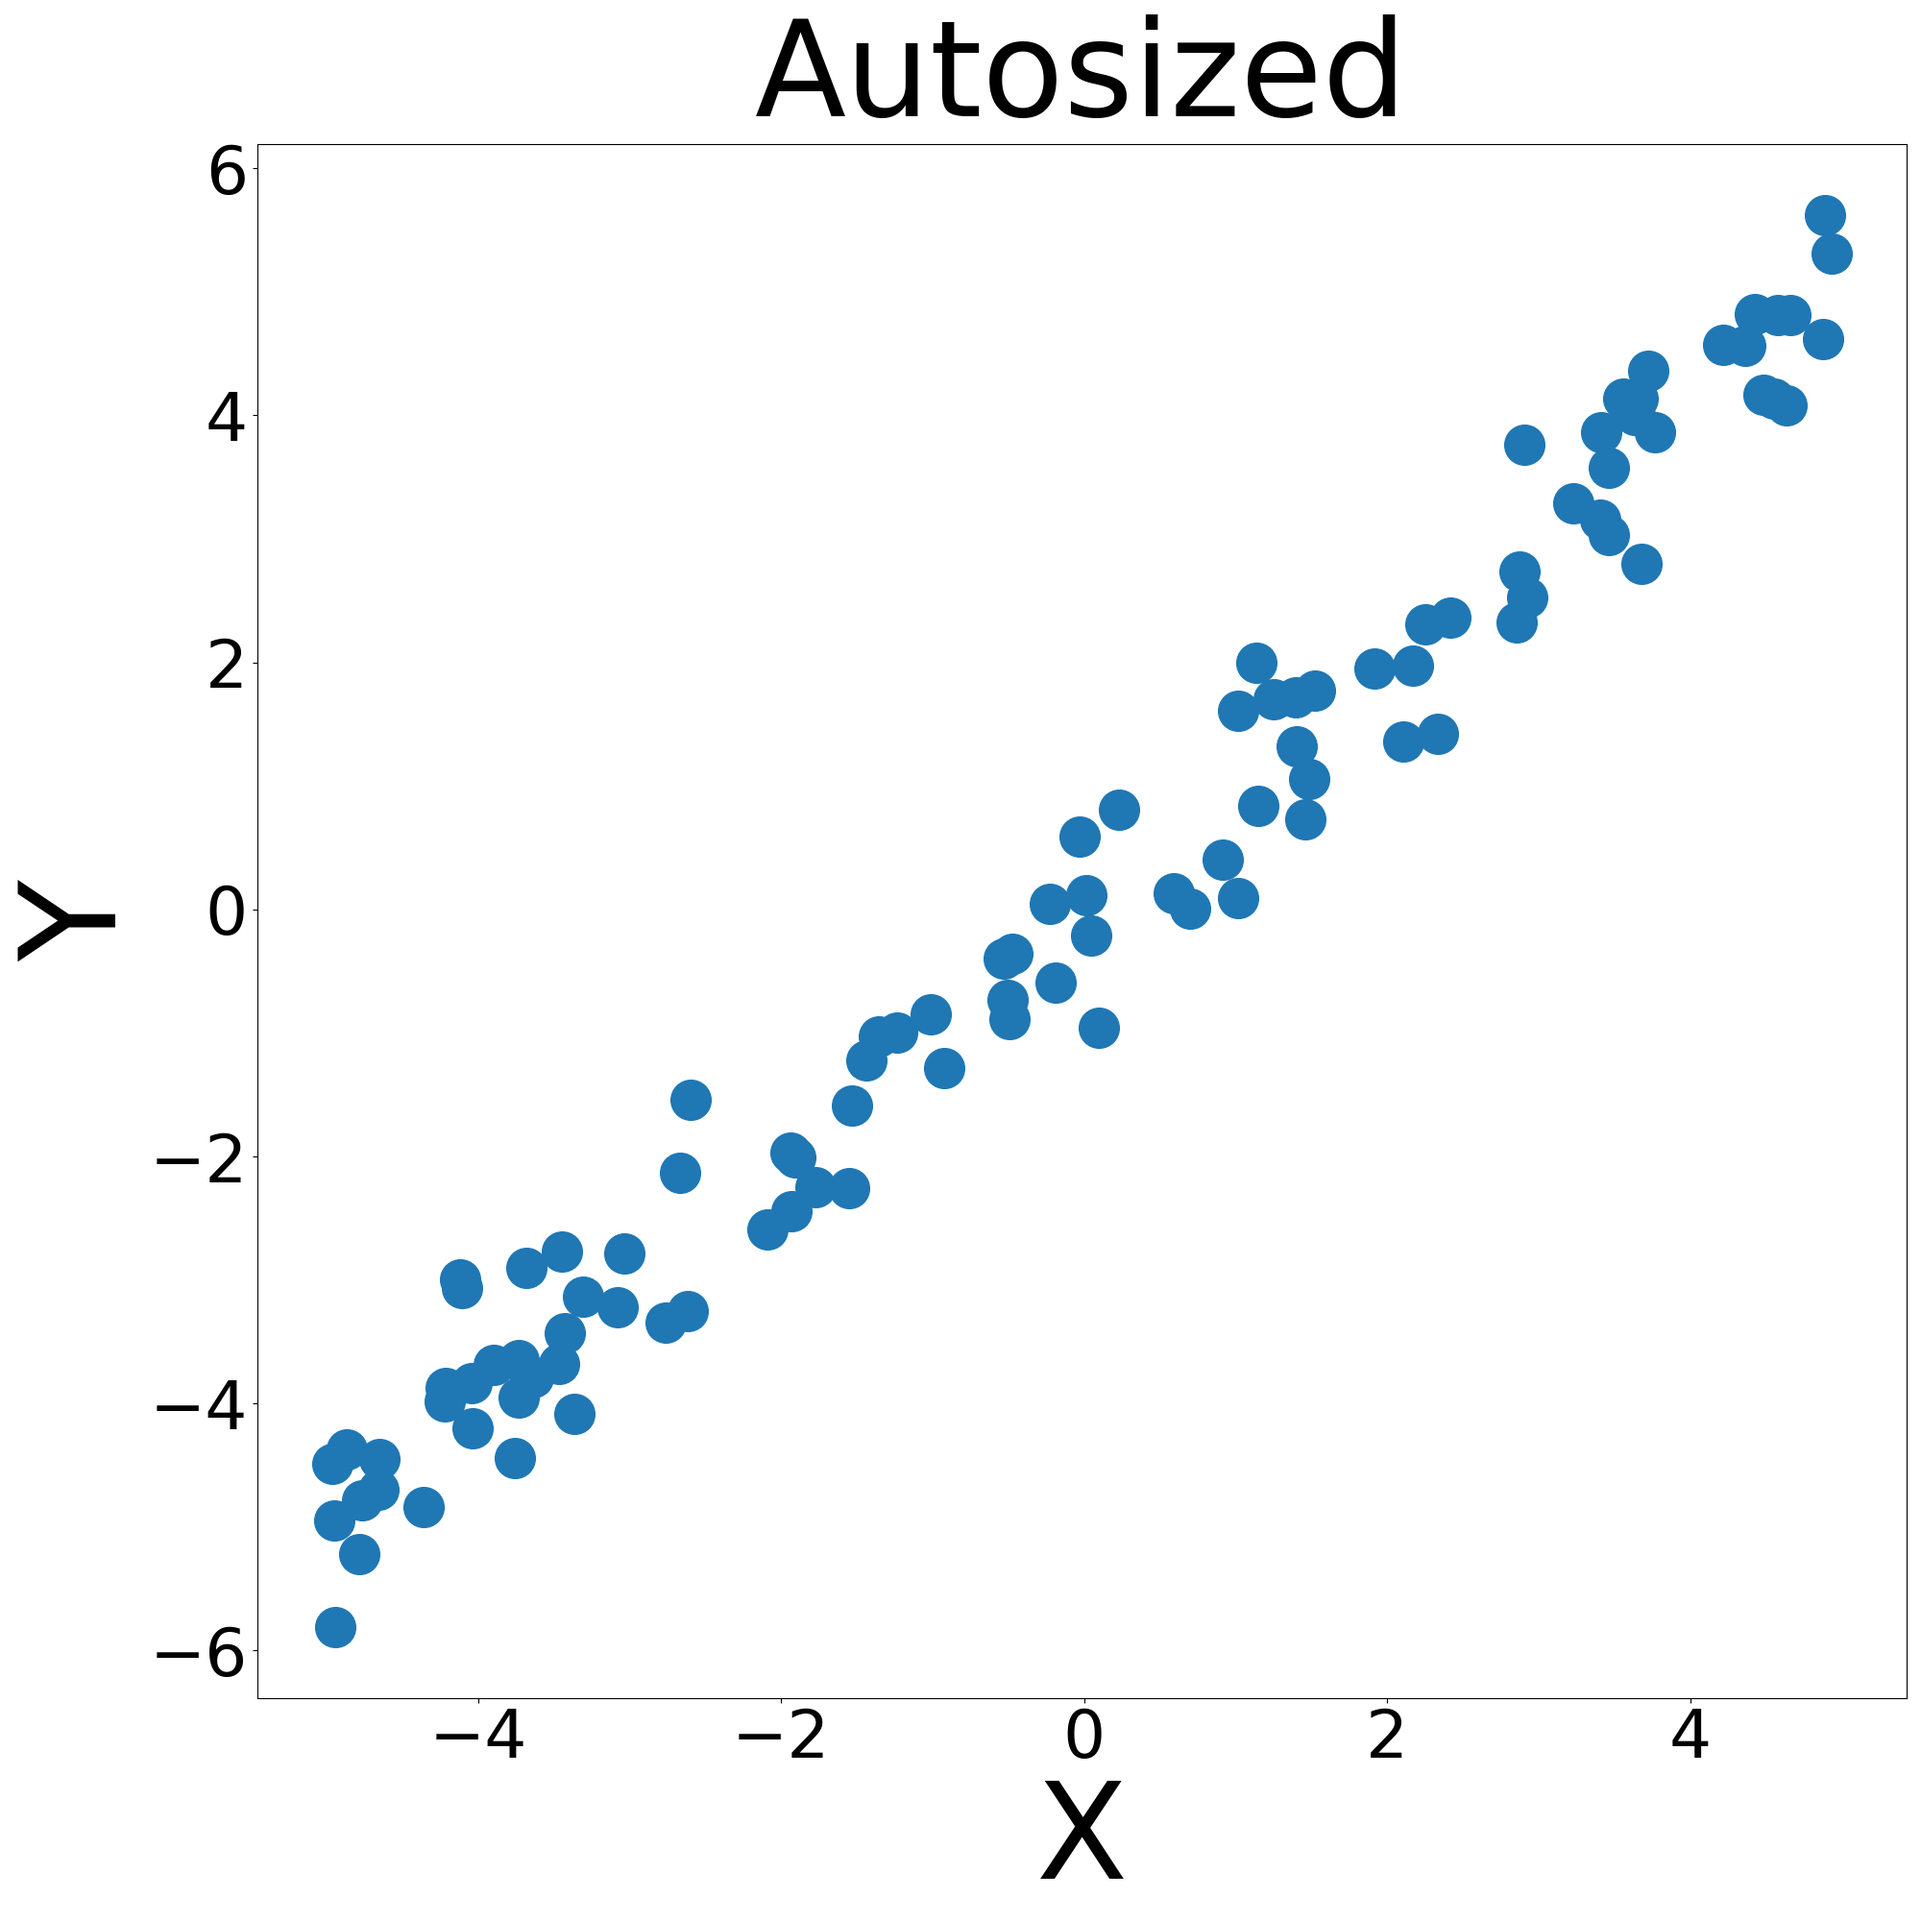
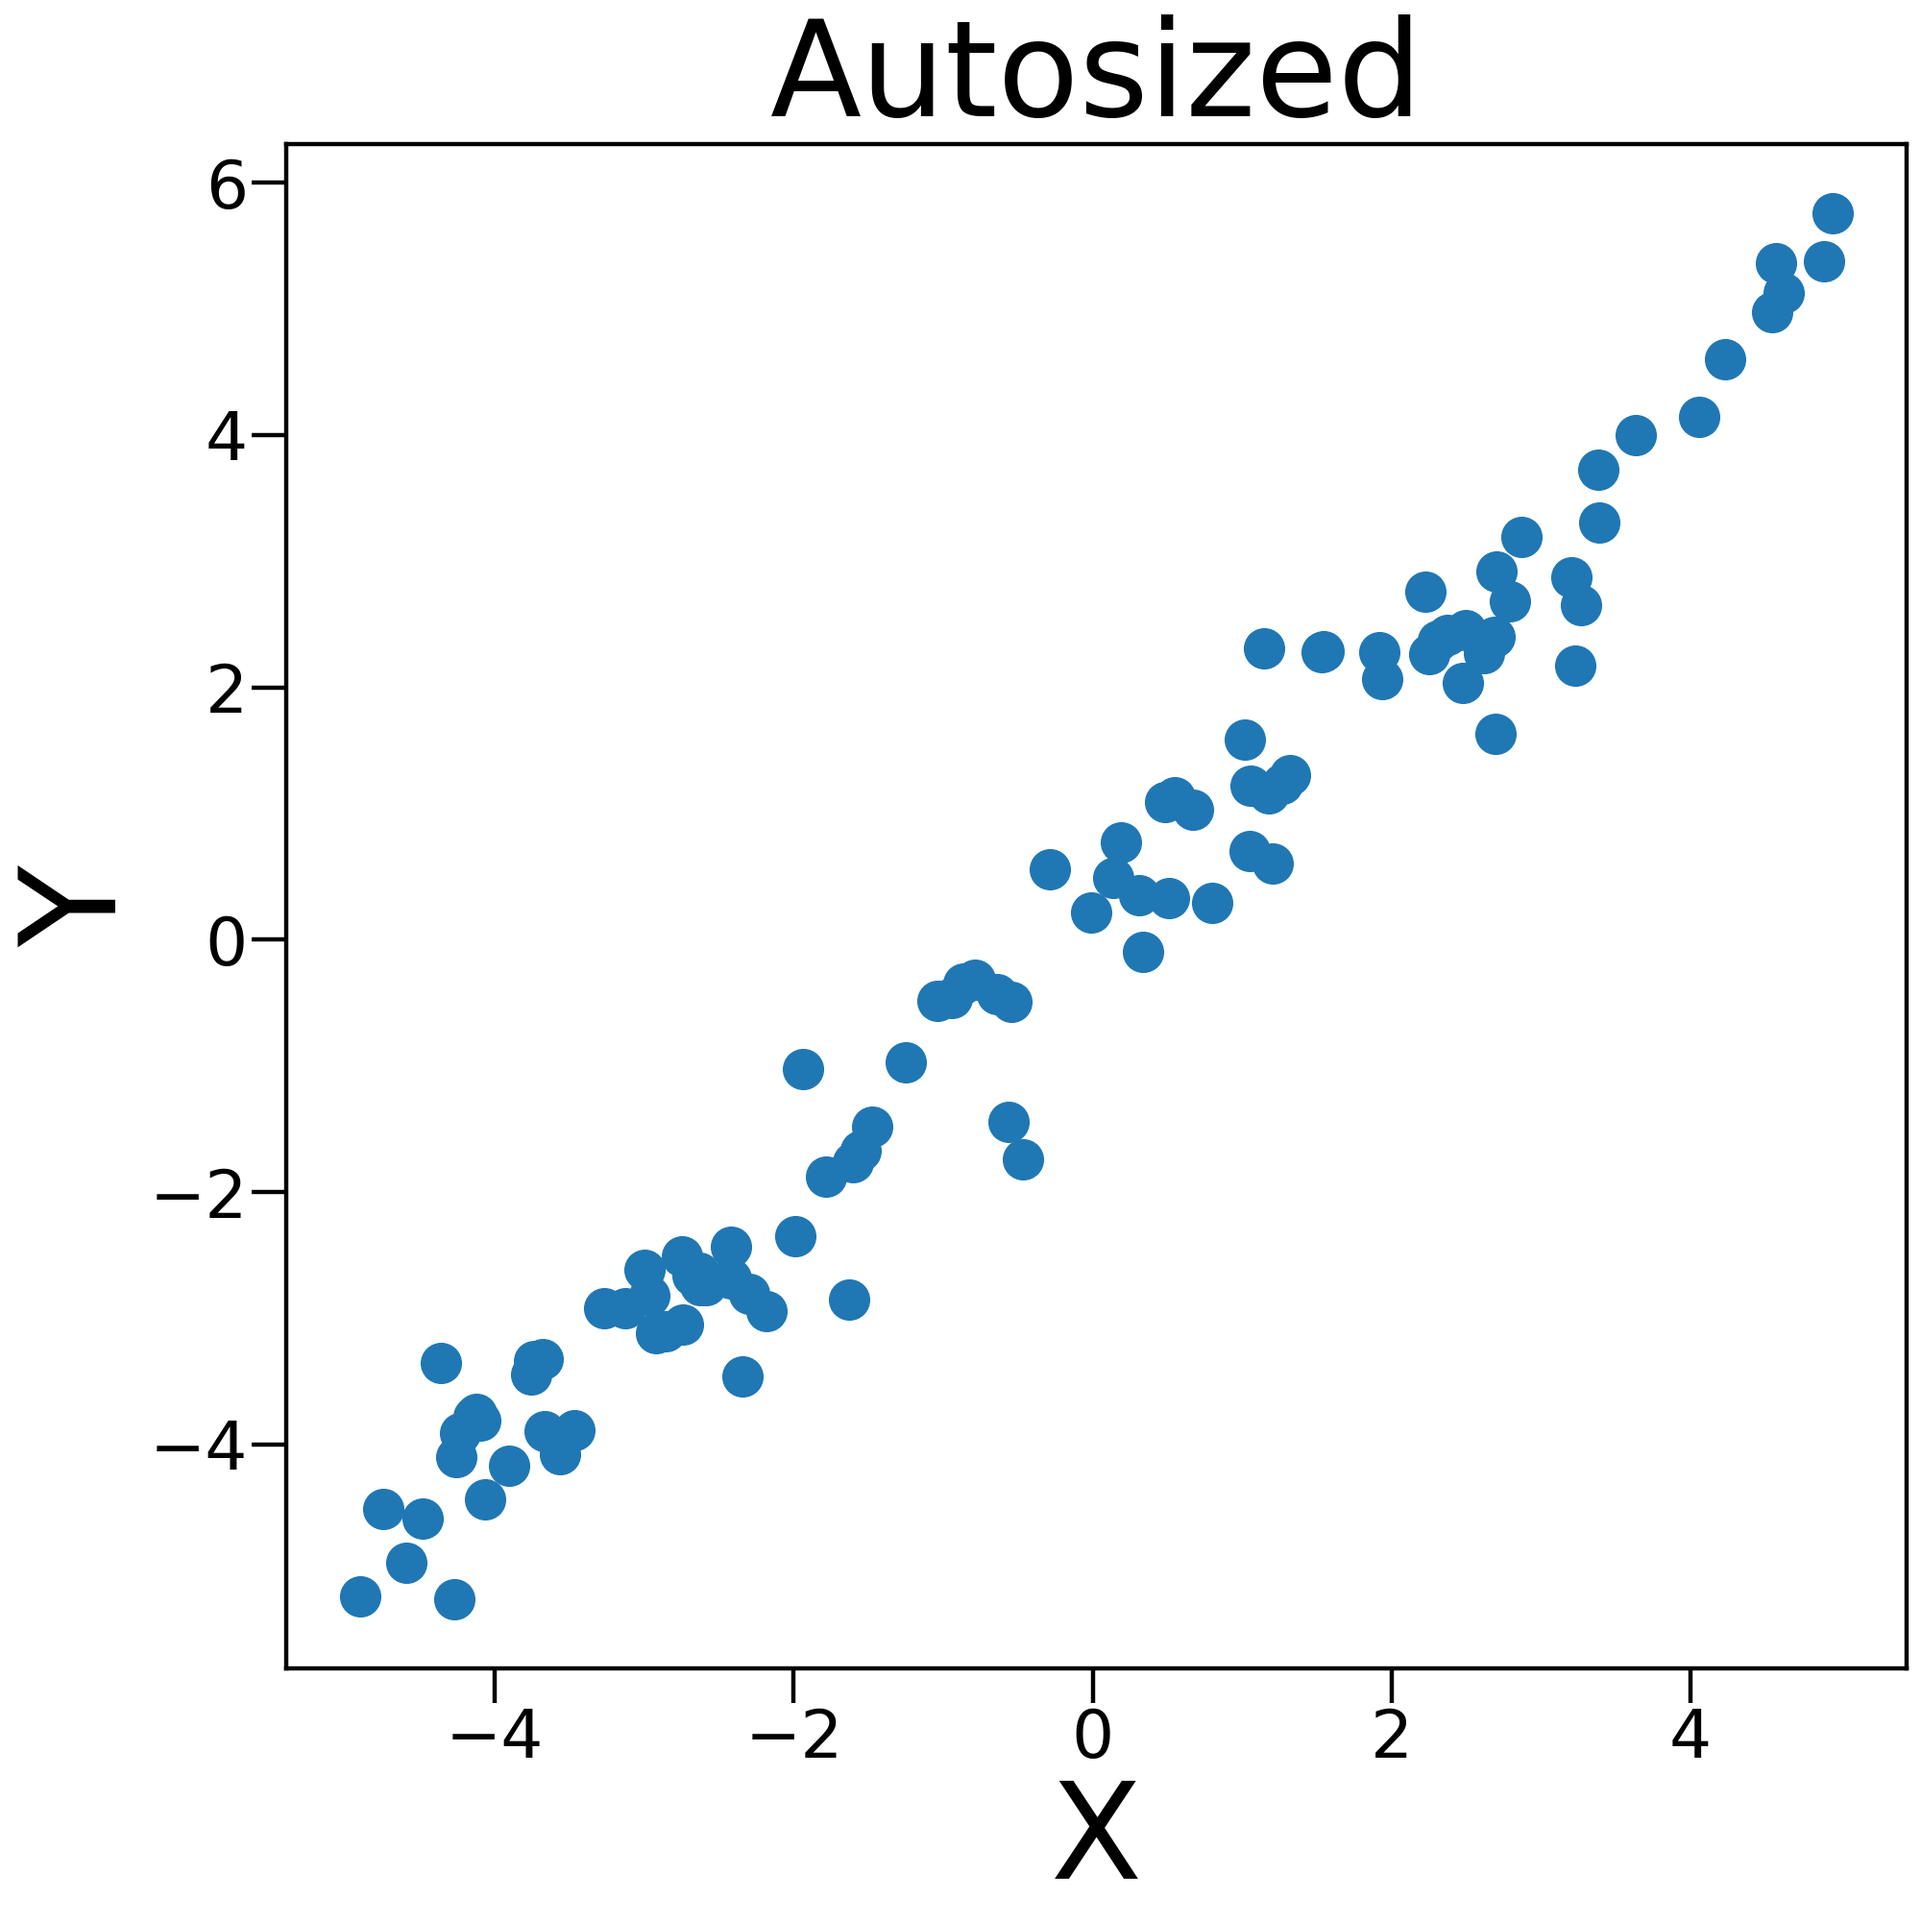
add adjustment to spine and tick size

diff --git a/plottify/plottify.py b/plottify/plottify.py
@@ -18,11 +18,28 @@ def autosize(fig=None, figsize=None):
         ## Set size of figure
         fig.set_size_inches(figsize)
 
-    ## Make font sizes proportional to figure size
+    ## Set sizes of objects
+    ##      -- Note that this function currently adjusts sizes only
+    ##         according to the horizontal width fo the figure.
+
+    ## Font sizes
     fontsize_labels = figsize[0] * 5
     fontsize_ticks = fontsize_labels / 2
+
+    ## Scatter point size
     scatter_size = (figsize[0] * 1.5) ** 2
+
+    ## Line width
     linewidth = figsize[0]
+
+    ## Spine width
+    spine_width = 0.16 * figsize[0]
+
+    ## Tick length and width
+    tick_length = spine_width*8
+    tick_width = spine_width
+
+    ## Change all of these sizes
     axes = fig.get_axes()
     for ax in axes:
 
@@ -47,6 +64,14 @@ def autosize(fig=None, figsize=None):
         ]
         for plot_obj in plot_objs:
             plot_obj.set_sizes([scatter_size])
+
+        # import ipdb; ipdb.set_trace()
+        ## Set spine widths
+        for spine in ax.spines.values():
+            spine.set_linewidth(spine_width)
+
+        ## Set tick width and length
+        ax.tick_params(width=tick_width, length=tick_length)
 
     ## Set tight layout
     plt.tight_layout()

diff --git a/examples/lineplot.py b/examples/lineplot.py
@@ -2,11 +2,10 @@ import numpy as np
 
 n = 100
 x = np.linspace(-5, 5, n)
-y = x**2
+y = x ** 2
 fig, ax = plt.subplots(figsize=(5, 5))
 ax.plot(x, y)
 ax.set_xlabel("X")
 ax.set_ylabel("Y")
 autosize(fig)
 plt.show()
-
